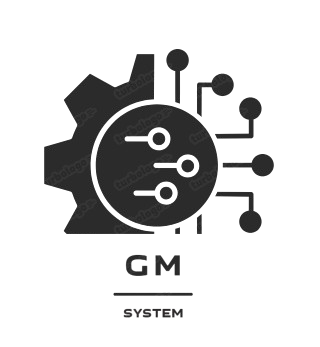
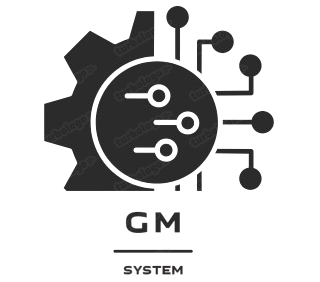
.
.

diff --git a/src/style/main.css b/src/style/main.css
@@ -38,12 +38,11 @@ body {
 .logo {
   width: auto; /* Ajuste a largura de acordo com o conteúdo */
   height: auto;
-  margin-bottom: 10px; /* Distância entre as imagens */
 }
 
 /* Classe para a primeira imagem (Maior) */
 .logo-large {
-  width: 250px; /* Tamanho maior da primeira imagem */
+  width: 200px; /* Tamanho maior da primeira imagem */
   height: auto;
 }
 
@@ -91,7 +90,7 @@ h2 {
 
 .logo-central,
 img {
-  width: 70%;
+  width: 80%;
 }
 
 /* Lado direito com o formulário de login */
@@ -243,7 +242,7 @@ label {
   justify-content: space-around;
   align-items: center;
   margin: 10px;
-  width: 70%;
+  width: 100%;
 }
 
 .icon {

diff --git a/index.php b/index.php
@@ -117,7 +117,7 @@ if ($_SERVER['REQUEST_METHOD'] == 'POST') {
 						<div class="left-side">
          <div class="logo-container">
         <!-- Primeira Imagem (Maior) -->
-        <img src="./src/img/colo.png" alt="PCA RJ Logo" class="logo logo-large">
+        <img src="./src/img/gm.png" alt="PCA RJ Logo" class="logo logo-large">
 
         <!-- Texto -->
         <h2 class="erp">SISTEMA ERP CENTRAL LOGISTICA</h2>
@@ -152,7 +152,7 @@ if ($_SERVER['REQUEST_METHOD'] == 'POST') {
             <div class="wrap-login100">
                 <form class="login100-form validate-form" action="login.php" method="POST">
                         <div class="logo-central">
-                        <img src="./src/img/GM.png" alt="GM">
+                        <img src="./src/img/LL.png" alt="CENTRAL">
 												</div>
 
                     <!-- Seletor de área de acesso -->
